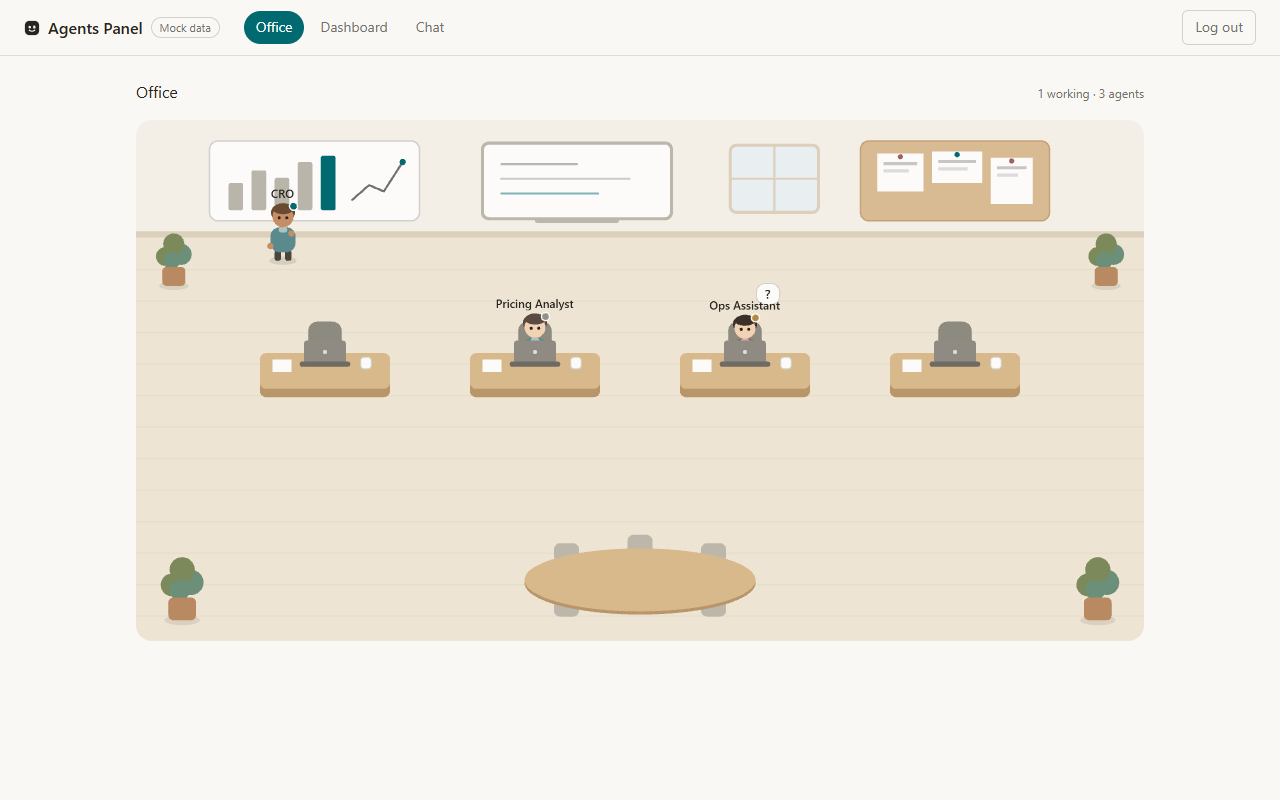
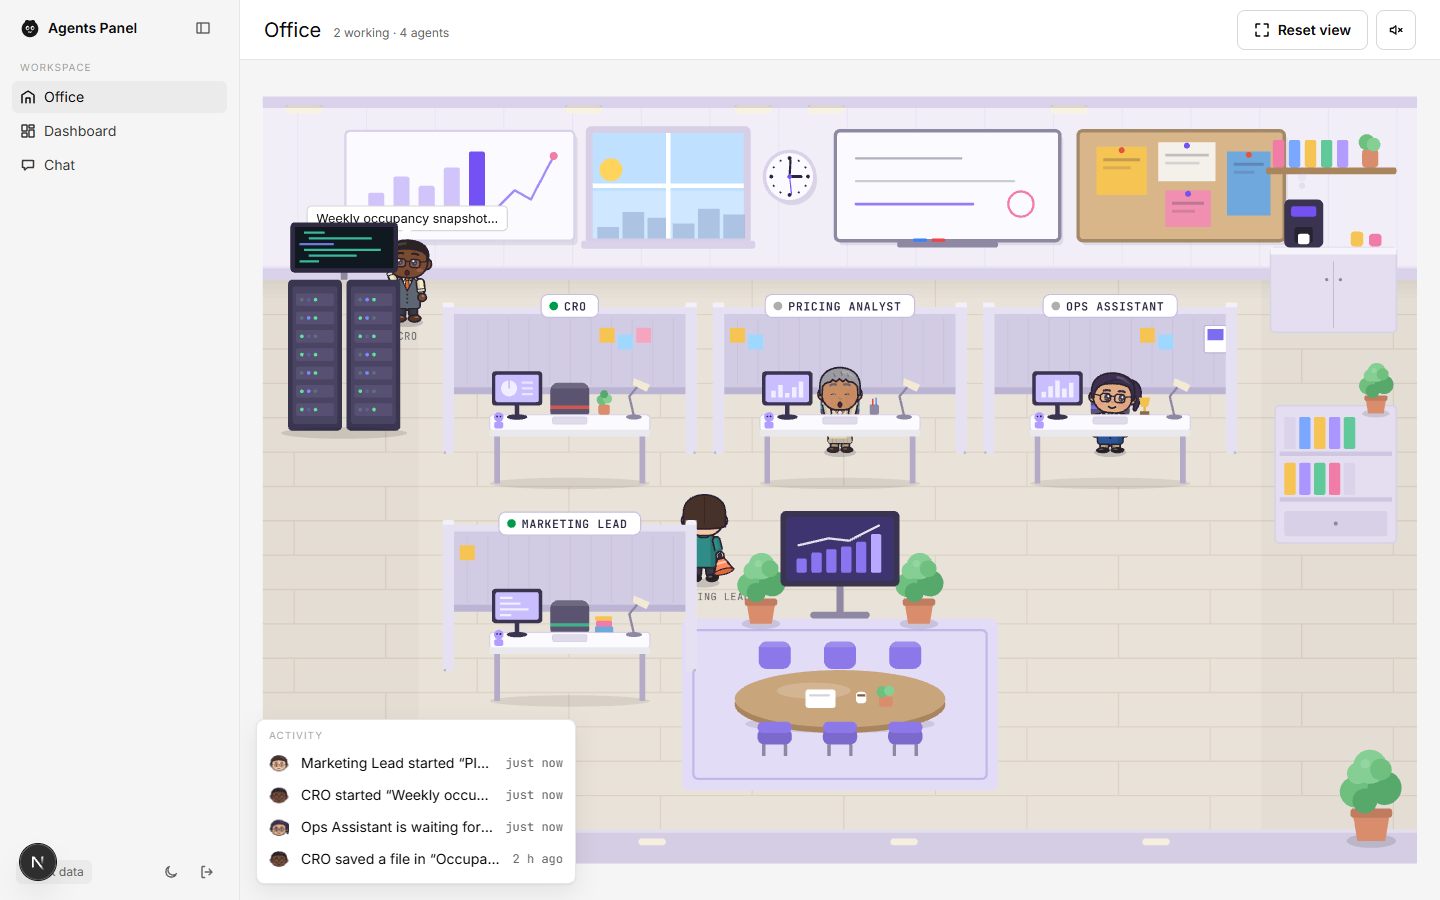
Lounge/strip characters stay facing the viewer; wall spots clear of the racks; refreshed screenshots; temp sheet removed

diff --git a/components/office/world.ts b/components/office/world.ts
@@ -94,7 +94,11 @@ export function buildLayout(deskCount: number): Layout {
   const shelf: Rect = { x: width - SIDE_W + 26, y: WALL_H + 196, w: SIDE_W - 44, h: 34 };
   const floorY = WALL_H + 30;
   const spotsAt = (kind: WallItem["kind"]) =>
-    wall.filter((w) => w.kind === kind).flatMap((w) => [-1, 0, 1].map((d) => ({ x: w.x + w.w / 2 + d * 46, y: floorY + Math.abs(d) * 6 })));
+    wall
+      .filter((w) => w.kind === kind)
+      .flatMap((w) => [-1, 0, 1].map((d) => ({ x: w.x + w.w / 2 + d * 46, y: floorY + Math.abs(d) * 6 })))
+      // keep clear of the server racks and the coffee corner, which stand in front of the wall
+      .filter((p) => p.x > SIDE_W + 10 && p.x < width - SIDE_W - 10);
   const spots: Record<string, Pt[]> = {
     chartWall: spotsAt("chart"),
     whiteboard: spotsAt("whiteboard"),

diff --git a/components/character/brain.ts b/components/character/brain.ts
@@ -339,6 +339,10 @@ export class CharacterBrain {
     return inp.steps[this.stepIndex % Math.max(1, inp.steps.length)]?.action ?? "type";
   }
 
+  get hasRoom() {
+    return this.nav !== null;
+  }
+
   get isAway() {
     return this.away;
   }
@@ -448,7 +452,11 @@ const POSES: Record<State, (p: Pose, c: Ctx) => void> = {
     p.hold = "prop";
     p.lookX = 0.5;
   },
-  work: (p, c) => workPose(p, c),
+  work: (p, c) => {
+    workPose(p, c);
+    // scenes without a room (lounge, team strip) have no board to face: stay turned toward the viewer
+    if (!c.brain.hasRoom) p.away = false;
+  },
   think: (p, { t }) => {
     p.armR = -2.55;
     p.armL = 0.1;
